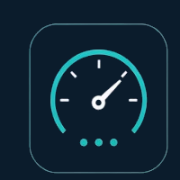
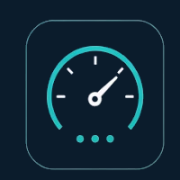
fix(brand): centralizar odômetro no ícone adaptativo Android
Reduz escala do foreground, bias vertical para navy sob os pontinhos e teste de padding inferior.

diff --git a/scripts/crop-brand-assets.php b/scripts/crop-brand-assets.php
@@ -204,7 +204,7 @@ function resize(\GdImage $source, int $w, int $h): \GdImage
  * Variation D includes a teal rounded-rect frame. Android adaptive icons mask the
  * foreground again, so keep only the inner odometer for ic_launcher_foreground.
  */
-function recenterMark(\GdImage $image, int $shiftY = 0): \GdImage
+function recenterMark(\GdImage $image, int $shiftY = 0, bool $horizontalOnly = false): \GdImage
 {
     $w = imagesx($image);
     $h = imagesy($image);
@@ -232,7 +232,9 @@ function recenterMark(\GdImage $image, int $shiftY = 0): \GdImage
     }
 
     $dx = (int) round(($w / 2) - ($sumX / $n));
-    $dy = (int) round(($h / 2) - ($sumY / $n)) + $shiftY;
+    $dy = $horizontalOnly
+        ? $shiftY
+        : (int) round(($h / 2) - ($sumY / $n)) + $shiftY;
 
     $dest = imagecreatetruecolor($w, $h);
     $navy = imagecolorallocate($dest, NAVY[0], NAVY[1], NAVY[2]);
@@ -268,20 +270,21 @@ function innerAppMark(\GdImage $appIcon): \GdImage
     return compositeOnExactNavy($cropped);
 }
 
-function resizeWithSafeZone(\GdImage $source, int $size, float $contentRatio = 0.84): \GdImage
+function resizeWithSafeZone(\GdImage $source, int $size, float $contentRatio = 0.84, int $verticalShift = 0): \GdImage
 {
     $dest = imagecreatetruecolor($size, $size);
     $navy = imagecolorallocate($dest, NAVY[0], NAVY[1], NAVY[2]);
     imagefill($dest, 0, 0, $navy);
 
     $content = max(1, (int) round($size * $contentRatio));
-    $offset = (int) round(($size - $content) / 2);
+    $offsetX = (int) round(($size - $content) / 2);
+    $offsetY = $offsetX + $verticalShift;
 
     imagecopyresampled(
         $dest,
         $source,
-        $offset,
-        $offset,
+        $offsetX,
+        $offsetY,
         0,
         0,
         $content,
@@ -291,6 +294,18 @@ function resizeWithSafeZone(\GdImage $source, int $size, float $contentRatio = 0
     );
 
     return $dest;
+}
+
+/**
+ * Android launcher masks crop the bottom of adaptive icons; scale down and bias up.
+ */
+function buildAdaptiveLauncherForeground(\GdImage $appIcon): \GdImage
+{
+    $mark = recenterMark(innerAppMark($appIcon));
+    $sized = resizeWithSafeZone($mark, 432, 0.70, verticalShift: -4);
+    imagedestroy($mark);
+
+    return recenterMark($sized, shiftY: -9, horizontalOnly: true);
 }
 
 function savePng(\GdImage $image, string $path): void
@@ -367,9 +382,7 @@ function generateAppIcons(string $sourcePath, string $frontendRoot): void
 
     $adaptiveDir = "{$frontendRoot}/android/app/src/main/res/drawable";
     if (is_dir($adaptiveDir)) {
-        $mark = recenterMark(innerAppMark($source));
-        $foreground = recenterMark(resizeWithSafeZone($mark, 432, 0.78), shiftY: -10);
-        imagedestroy($mark);
+        $foreground = buildAdaptiveLauncherForeground($source);
         savePng($foreground, "{$adaptiveDir}/ic_launcher_foreground.png");
         savePng($foreground, "{$adaptiveDir}/ic_launcher.png");
         imagedestroy($foreground);

diff --git a/tests/Unit/BrandAppIconCropTest.php b/tests/Unit/BrandAppIconCropTest.php
@@ -33,6 +33,7 @@ class BrandAppIconCropTest extends TestCase
         $this->assertLessThan(40, $cornerTeal, 'Adaptive foreground still has the outer teal frame in the mask corners.');
 
         $this->assertMarkIsHorizontallyCentered($image);
+        $this->assertMarkHasBalancedVerticalPadding($image);
 
         imagedestroy($image);
     }
@@ -160,5 +161,36 @@ class BrandAppIconCropTest extends TestCase
         $this->assertGreaterThan(0, $count);
         $centroidX = $sumX / $count;
         $this->assertEqualsWithDelta($width / 2, $centroidX, 3.0, 'Launcher mark is off-center horizontally.');
+    }
+
+    private function assertMarkHasBalancedVerticalPadding(\GdImage $image): void
+    {
+        $width = imagesx($image);
+        $height = imagesy($image);
+        $minY = $height;
+        $maxY = 0;
+        $found = false;
+
+        for ($y = 0; $y < $height; $y++) {
+            for ($x = 0; $x < $width; $x++) {
+                $rgba = imagecolorat($image, $x, $y);
+                $r = ($rgba >> 16) & 0xFF;
+                $g = ($rgba >> 8) & 0xFF;
+                $b = $rgba & 0xFF;
+
+                if ($this->isBrightLetter($r, $g, $b) || $this->isTeal($r, $g, $b)) {
+                    $found = true;
+                    $minY = min($minY, $y);
+                    $maxY = max($maxY, $y);
+                }
+            }
+        }
+
+        $this->assertTrue($found);
+        $topPad = $minY;
+        $bottomPad = ($height - 1) - $maxY;
+        // Launcher circle masks clip the bottom; keep extra navy below the mark in the asset.
+        $this->assertGreaterThanOrEqual(70, $bottomPad, 'Need navy visible below the odometer dots.');
+        $this->assertGreaterThanOrEqual($topPad - 6, $bottomPad, "Bottom padding ({$bottomPad}) should not be less than top ({$topPad}).");
     }
 }
